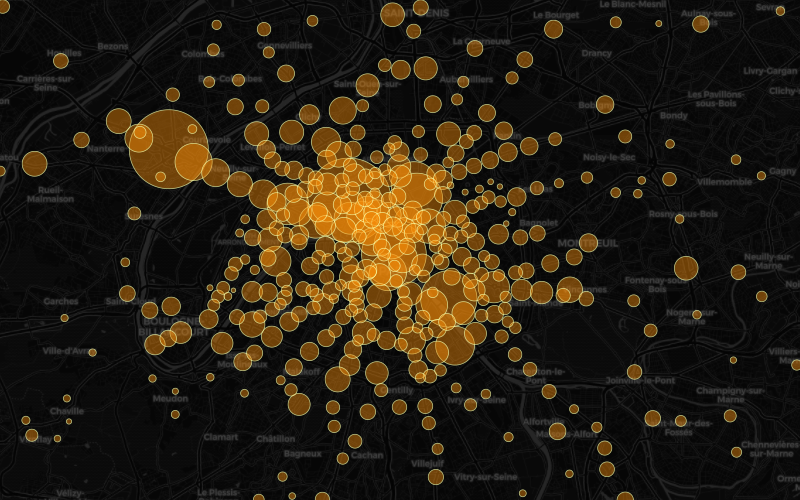
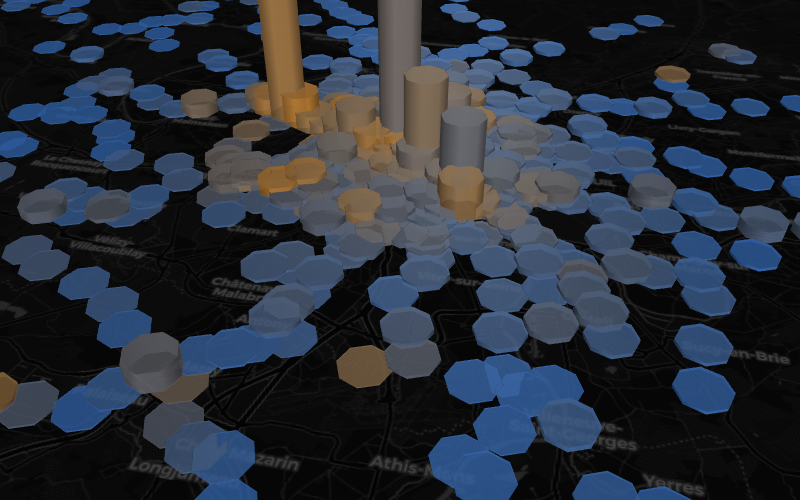
feat: 3d ridership skyline with network curve scrubber, slim train trails

diff --git a/apps/site/src/components/PulseMap.tsx b/apps/site/src/components/PulseMap.tsx
@@ -1,9 +1,9 @@
 "use client";
 
-import { useEffect, useRef, useState } from "react";
+import { useEffect, useMemo, useRef, useState } from "react";
 import { Deck } from "@deck.gl/core";
 import { TileLayer, type GeoBoundingBox } from "@deck.gl/geo-layers";
-import { BitmapLayer, ScatterplotLayer } from "@deck.gl/layers";
+import { BitmapLayer, ColumnLayer } from "@deck.gl/layers";
 import { loadLang, saveLang, type Lang } from "@/lib/lang";
 import { FLUX, PULSE } from "@/lib/siteStrings";
 import LangToggle from "./LangToggle";
@@ -30,7 +30,7 @@ interface PulseData {
   stations: PulseStation[];
 }
 
-const SPEEDS = [60, 120, 300, 600];
+const SPEEDS = [120, 300, 600, 1200];
 
 const fmtClock = (s: number) => {
   const h = Math.floor(s / 3600) % 24;
@@ -38,18 +38,36 @@ const fmtClock = (s: number) => {
   return `${String(h).padStart(2, "0")}:${String(m).padStart(2, "0")}`;
 };
 
-/** Validations per hour at continuous time t (seconds), interpolating
- * between the two surrounding hour buckets. */
-function tapsPerHour(st: PulseStation, day: DayKey, t: number): number {
-  const arr = st[DAY_FIELD[day]];
-  const daily = arr[0];
-  if (!daily) return 0;
+/** Hourly share (fraction of the day) at continuous time t, interpolated. */
+function shareAt(arr: number[], t: number): number {
   const h = (t / 3600) % 24;
   const h0 = Math.floor(h) % 24;
   const h1 = (h0 + 1) % 24;
   const f = h - Math.floor(h);
-  const share = (arr[1 + h0] * (1 - f) + arr[1 + h1] * f) / 1000;
-  return daily * share;
+  return (arr[1 + h0] * (1 - f) + arr[1 + h1] * f) / 1000;
+}
+
+const tapsPerHour = (st: PulseStation, day: DayKey, t: number) => {
+  const arr = st[DAY_FIELD[day]];
+  return arr[0] * shareAt(arr, t);
+};
+
+// diverging color: blue (quieter than the network right now) → neutral →
+// amber (busier than the network right now)
+const COLD: [number, number, number] = [64, 130, 224];
+const MID: [number, number, number] = [110, 118, 134];
+const WARM: [number, number, number] = [249, 142, 9];
+
+function divergingColor(logRatio: number): [number, number, number, number] {
+  const t = Math.max(-1.5, Math.min(1.5, logRatio)) / 1.5; // -1..1
+  const [a, b] = t < 0 ? [MID, COLD] : [MID, WARM];
+  const f = Math.abs(t);
+  return [
+    Math.round(a[0] + (b[0] - a[0]) * f),
+    Math.round(a[1] + (b[1] - a[1]) * f),
+    Math.round(a[2] + (b[2] - a[2]) * f),
+    210,
+  ];
 }
 
 function readParams() {
@@ -70,10 +88,11 @@ export default function PulseMap() {
   const containerRef = useRef<HTMLDivElement>(null);
   const clockRef = useRef<HTMLDivElement>(null);
   const sliderRef = useRef<HTMLInputElement>(null);
+  const playheadRef = useRef<SVGLineElement>(null);
   const [data, setData] = useState<PulseData | null>(null);
   const [error, setError] = useState<string | null>(null);
   const [playing, setPlaying] = useState(!params.paused);
-  const [speed, setSpeed] = useState(300);
+  const [speed, setSpeed] = useState(600);
   const [day, setDay] = useState<DayKey>(params.day);
   const [lang, setLang] = useState<Lang>(loadLang);
   const [sheetOpen, setSheetOpen] = useState(
@@ -92,6 +111,25 @@ export default function PulseMap() {
   const dataRef = useRef(data);
   dataRef.current = data;
   const timeRef = useRef(params.time);
+
+  // network-wide hourly curve for the selected day type: taps/hour totals
+  // (drives both the sparkline and the "busier than the network" coloring)
+  const network = useMemo(() => {
+    if (!data) return null;
+    const field = DAY_FIELD[day];
+    const curve = new Array<number>(24).fill(0);
+    let total = 0;
+    for (const st of data.stations) {
+      const arr = st[field];
+      total += arr[0];
+      for (let h = 0; h < 24; h++) curve[h] += (arr[0] * arr[1 + h]) / 1000;
+    }
+    // share arr shaped like a station's: [total, ...per-mille]
+    const share = [total, ...curve.map((v) => (total ? (v / total) * 1000 : 0))];
+    return { curve, max: Math.max(...curve), share };
+  }, [data, day]);
+  const networkRef = useRef(network);
+  networkRef.current = network;
 
   useEffect(() => {
     fetch("/pulse.json")
@@ -128,8 +166,10 @@ export default function PulseMap() {
       parent: containerRef.current!,
       initialViewState: {
         longitude: 2.35,
-        latitude: 48.86,
-        zoom: 10.5,
+        latitude: 48.8,
+        zoom: 10.3,
+        pitch: 52,
+        bearing: -12,
         minZoom: 8,
         maxZoom: 15,
       },
@@ -168,29 +208,41 @@ export default function PulseMap() {
       if (clockRef.current) clockRef.current.textContent = fmtClock(t);
       if (sliderRef.current && document.activeElement !== sliderRef.current)
         sliderRef.current.value = String(Math.round(t));
+      if (playheadRef.current) {
+        const x = (t / 86400) * 240;
+        playheadRef.current.setAttribute("x1", String(x));
+        playheadRef.current.setAttribute("x2", String(x));
+      }
       const sig = `${dayRef.current}|${dataRef.current ? 1 : 0}`;
       if (t === appliedTime && sig === appliedSig) return;
       appliedTime = t;
       appliedSig = sig;
-      if (!dataRef.current) return;
+      const net = networkRef.current;
+      if (!dataRef.current || !net) return;
+      const day = dayRef.current;
+      const netShare = shareAt(net.share, t);
       deck.setProps({
         layers: [
           basemap,
-          new ScatterplotLayer({
-            id: "pulse",
+          new ColumnLayer({
+            id: "pulse-columns",
             data: dataRef.current.stations,
+            diskResolution: 8,
+            extruded: true,
             getPosition: (d: PulseStation) => [d.lon, d.lat],
-            // area ∝ validations/hour → radius ∝ sqrt
-            getRadius: (d: PulseStation) =>
-              20 + Math.sqrt(tapsPerHour(d, dayRef.current, t)) * 9,
-            radiusMinPixels: 1.5,
-            radiusMaxPixels: 120,
-            getFillColor: [249, 142, 9, 110],
-            getLineColor: [252, 255, 164, 160],
-            lineWidthMinPixels: 1,
-            stroked: true,
+            // footprint hints at overall size; height is the live signal
+            getRadius: (d: PulseStation) => 50 + Math.sqrt(d.w[0]) * 0.35,
+            getElevation: (d: PulseStation) => {
+              const v = tapsPerHour(d, day, t);
+              return v > 0 ? 40 + v * 0.28 : 0;
+            },
+            getFillColor: (d: PulseStation) => {
+              if (netShare < 0.002) return [...MID, 200] as [number, number, number, number];
+              const own = shareAt(d[DAY_FIELD[day]], t);
+              return divergingColor(Math.log2(own / netShare || 1));
+            },
             pickable: true,
-            updateTriggers: { getRadius: [t, dayRef.current] },
+            updateTriggers: { getElevation: t, getFillColor: t },
           }),
         ],
       });
@@ -208,6 +260,24 @@ export default function PulseMap() {
   }, []);
 
   const locale = lang === "fr" ? "fr-FR" : "en-GB";
+
+  // area path for the 24h curve sparkline (viewBox 240×48)
+  const curvePath = useMemo(() => {
+    if (!network) return "";
+    const pts = network.curve.map((v, h) => {
+      const x = ((h + 0.5) / 24) * 240;
+      const y = 46 - (v / (network.max || 1)) * 42;
+      return `${x.toFixed(1)},${y.toFixed(1)}`;
+    });
+    return `M0,46 L${pts.join(" L")} L240,46 Z`;
+  }, [network]);
+
+  const seek = (e: React.PointerEvent<SVGSVGElement>) => {
+    if (e.buttons === 0 && e.type !== "pointerdown") return;
+    const rect = e.currentTarget.getBoundingClientRect();
+    const f = Math.max(0, Math.min(1, (e.clientX - rect.left) / rect.width));
+    timeRef.current = f * 86400;
+  };
 
   return (
     <div className="flow">
@@ -267,6 +337,26 @@ export default function PulseMap() {
             ))}
           </select>
         </div>
+        {network && (
+          <svg
+            className="pulse-curve"
+            viewBox="0 0 240 48"
+            preserveAspectRatio="none"
+            onPointerDown={seek}
+            onPointerMove={seek}
+          >
+            <path d={curvePath} fill="rgba(249, 142, 9, 0.25)" stroke="#f98e09" strokeWidth="1" />
+            <line
+              ref={playheadRef}
+              x1="0"
+              x2="0"
+              y1="0"
+              y2="48"
+              stroke="#9fd8ff"
+              strokeWidth="1.5"
+            />
+          </svg>
+        )}
         <input
           ref={sliderRef}
           className="flow-slider"
@@ -297,6 +387,7 @@ export default function PulseMap() {
             </button>
           ))}
         </div>
+        <p className="pulse-legend sheet-hide">{pu.legend}</p>
         <p className="flow-footer sheet-hide">{pu.footer}</p>
       </div>
     </div>

diff --git a/apps/site/src/components/FlowMap.tsx b/apps/site/src/components/FlowMap.tsx
@@ -441,21 +441,14 @@ export default function FlowMap() {
             currentTime: t,
             shadowEnabled: false,
           };
+          // single slim layer: the original, calmer look
           return [
             new TripsLayer({
               ...common,
-              id: `tail-${key}`,
-              widthMinPixels: 2.5,
-              opacity: 0.45,
-              trailLength: 150,
-            }),
-            new TripsLayer({
-              ...common,
-              id: `head-${key}`,
-              widthMinPixels: 4,
-              opacity: 0.85,
-              trailLength: 25,
-              // hovering a train head shows its line
+              id: `trips-${key}`,
+              widthMinPixels: 3,
+              trailLength: 120,
+              // hovering a train shows its line
               pickable: true,
             }),
           ];

diff --git a/apps/site/src/app/globals.css b/apps/site/src/app/globals.css
@@ -786,3 +786,19 @@ a {
     padding: 10px 0;
   }
 }
+
+.pulse-curve {
+  display: block;
+  width: 100%;
+  height: 48px;
+  margin-bottom: 4px;
+  cursor: crosshair;
+  touch-action: none;
+}
+
+.pulse-legend {
+  margin: 10px 0 0;
+  font-size: 12px;
+  line-height: 1.5;
+  color: var(--text-dim);
+}

diff --git a/apps/site/src/lib/siteStrings.ts b/apps/site/src/lib/siteStrings.ts
@@ -26,7 +26,7 @@ export const SITE: Record<
       "Every scheduled trip of a full day moves across the map: 20,000 métro, RER and tram runs, plus 90,000 buses one checkbox away.",
     pulseTitle: "Pulse - station ridership",
     pulseDesc:
-      "Every rail station pulsing with its hourly ticket validations - watch the morning rush flow in and the evening rush flow out.",
+      "The ridership skyline of Île-de-France: every station rises and falls with its hourly ticket validations, amber where the crowd is right now.",
     noctTitle: "Noctilien - night buses",
     noctDesc:
       "Heatmap of night-bus frequency: which neighbourhoods are served after midnight, and which are not.",
@@ -44,7 +44,7 @@ export const SITE: Record<
       "Tous les trajets d'une journée se déplacent sur la carte : 20 000 courses de métro, RER et tramway, et 90 000 bus en option.",
     pulseTitle: "Pulse - l'affluence des gares",
     pulseDesc:
-      "Chaque gare et station pulse au rythme de ses validations horaires - regardez la pointe du matin affluer et celle du soir refluer.",
+      "La skyline de l'affluence francilienne : chaque gare monte et descend au rythme de ses validations horaires, en ambre là où la foule se trouve.",
     noctTitle: "Noctilien - bus de nuit",
     noctDesc:
       "Carte de chaleur de la fréquence des bus de nuit : quels quartiers sont desservis après minuit, et lesquels ne le sont pas.",
@@ -116,6 +116,7 @@ export interface PulseStrings {
   loading: string;
   subtitle: (n: string, start: string, end: string) => string;
   perHour: (n: string) => string;
+  legend: string;
   footer: string;
 }
 
@@ -126,6 +127,8 @@ export const PULSE: Record<Lang, PulseStrings> = {
     subtitle: (n, start, end) =>
       `${n} rail stations · ticket validations ${start} → ${end}`,
     perHour: (n) => `≈ ${n} validations/h`,
+    legend:
+      "Column height: validations per hour. Amber: busier than the network right now; blue: quieter. Watch the suburbs light up at 8am and the centre at 6pm.",
     footer: "Validations: Île-de-France Mobilités · Basemap © OpenStreetMap © CARTO",
   },
   fr: {
@@ -134,6 +137,8 @@ export const PULSE: Record<Lang, PulseStrings> = {
     subtitle: (n, start, end) =>
       `${n} gares et stations · validations ${start} → ${end}`,
     perHour: (n) => `≈ ${n} validations/h`,
+    legend:
+      "Hauteur : validations par heure. Ambre : plus fréquenté que le réseau à cet instant ; bleu : plus calme. Regardez la banlieue s'allumer à 8h et le centre à 18h.",
     footer:
       "Validations : Île-de-France Mobilités · Fond de carte © OpenStreetMap © CARTO",
   },